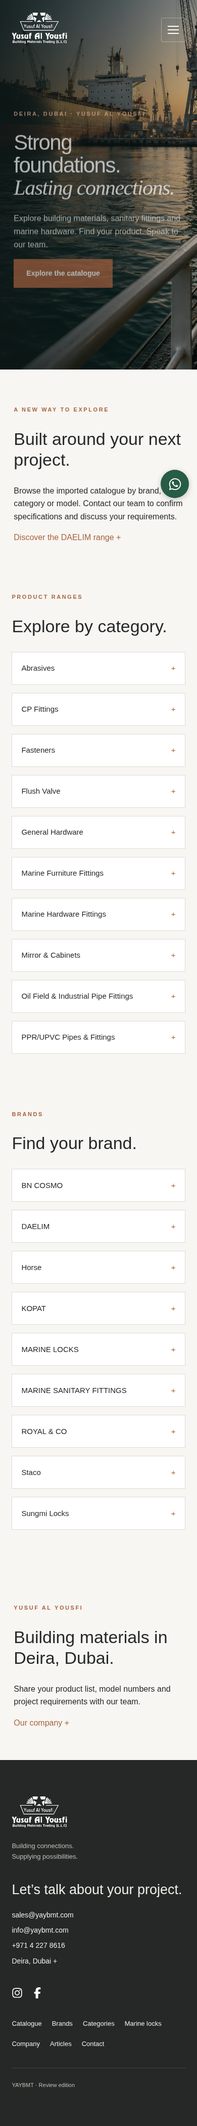
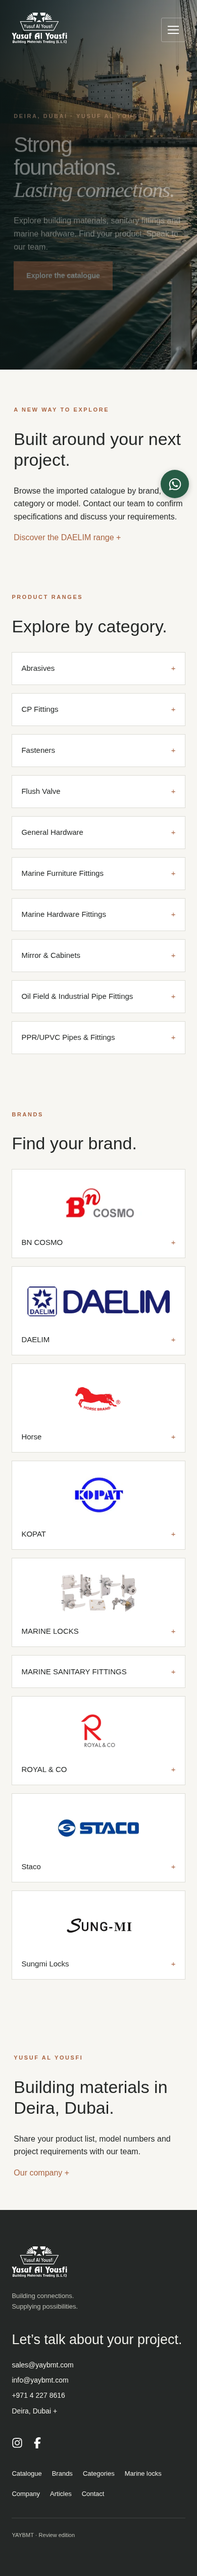
Restore original WordPress brand images as local static assets

diff --git a/data/brand-logos.ts b/data/brand-logos.ts
@@ -1,0 +1,65 @@
+export type BrandLogoData = {
+  src: string;
+  originalSrc: string;
+  width: number;
+  height: number;
+  source: string;
+};
+export const brandLogos: Record<string, BrandLogoData> = {
+  "bn-cosmo": {
+    src: "/images/brands/bn-cosmo.webp",
+    originalSrc: "/images/brands/bn-cosmo.png",
+    width: 182,
+    height: 80,
+    source: "2025/04/images-2-1.png",
+  },
+  daelim: {
+    src: "/images/brands/daelim.webp",
+    originalSrc: "/images/brands/daelim.png",
+    width: 640,
+    height: 134,
+    source: "2025/04/daelim.png",
+  },
+  horse: {
+    src: "/images/brands/horse.webp",
+    originalSrc: "/images/brands/horse.jpg",
+    width: 351,
+    height: 240,
+    source: "2025/05/horse.jpg",
+  },
+  kopat: {
+    src: "/images/brands/kopat.webp",
+    originalSrc: "/images/brands/kopat.jpg",
+    width: 188,
+    height: 141,
+    source: "2025/04/kopat.jpg",
+  },
+  "marine-locks": {
+    src: "/images/brands/marine-locks.webp",
+    originalSrc: "/images/brands/marine-locks.png",
+    width: 480,
+    height: 240,
+    source: "2025/05/MARINE-LOCKS-1.png",
+  },
+  "royal-co": {
+    src: "/images/brands/royal-co.webp",
+    originalSrc: "/images/brands/royal-co.png",
+    width: 240,
+    height: 240,
+    source: "2025/04/New-Project.png",
+  },
+  staco: {
+    src: "/images/brands/staco.webp",
+    originalSrc: "/images/brands/staco.png",
+    width: 300,
+    height: 100,
+    source: "2025/04/logo.png",
+  },
+  "sungmi-locks": {
+    src: "/images/brands/sungmi-locks.webp",
+    originalSrc: "/images/brands/sungmi-locks.png",
+    width: 593,
+    height: 240,
+    source: "2025/04/sung-mi.png",
+  },
+};

diff --git a/app/globals.css b/app/globals.css
@@ -1144,3 +1144,40 @@ summary {
     width: 100%;
   }
 }
+
+.brand-logo-frame {
+  display: flex;
+  align-items: center;
+  justify-content: center;
+  width: 100%;
+  height: 100px;
+  background: #fff;
+  padding: 12px;
+}
+.brand-logo-frame img {
+  display: block;
+  width: auto;
+  height: auto;
+  max-width: 100%;
+  max-height: 100%;
+  object-fit: contain;
+}
+.directory > .brand-directory-card {
+  display: flex;
+  flex-wrap: wrap;
+  gap: 14px;
+}
+.brand-directory-card > .brand-logo-frame {
+  flex: 0 0 100%;
+}
+.brand-directory-card > span[aria-hidden] {
+  margin-left: auto;
+}
+.brand-archive-logo {
+  width: min(320px, 100%);
+  margin: 24px 0;
+}
+.brand-archive-logo .brand-logo-frame {
+  height: 160px;
+  border: 1px solid var(--line);
+}

diff --git a/app/page.tsx b/app/page.tsx
@@ -1,3 +1,4 @@
+import BrandLogo from "../components/BrandLogo";
 import { sourcePages } from "../data/source-pages";
 import { brands } from "../data/brands";
 import { categories } from "../data/categories";
@@ -62,7 +63,12 @@ export default function Home() {
         <h2>Find your brand.</h2>
         <div className="directory">
           {brands.map((b) => (
-            <a href={"/brand/" + b.slug + "/"} key={b.slug}>
+            <a
+              className="brand-directory-card"
+              href={"/brand/" + b.slug + "/"}
+              key={b.slug}
+            >
+              <BrandLogo slug={b.slug} />
               {b.name}
               <span aria-hidden="true">+</span>
             </a>

diff --git a/app/brands/page.tsx b/app/brands/page.tsx
@@ -1,3 +1,4 @@
+import BrandLogo from "../../components/BrandLogo";
 import Breadcrumbs from "../../components/Breadcrumbs";
 import { brands } from "../../data/brands";
 import { metadata as meta } from "../../lib/site";
@@ -23,7 +24,12 @@ export default function Page() {
       </p>
       <div className="directory">
         {brands.map((b) => (
-          <a href={"/brand/" + b.slug + "/"} key={b.slug}>
+          <a
+            className="brand-directory-card"
+            href={"/brand/" + b.slug + "/"}
+            key={b.slug}
+          >
+            <BrandLogo slug={b.slug} />
             {b.name}
             <span aria-hidden="true">+</span>
           </a>

diff --git a/components/ArchivePage.tsx b/components/ArchivePage.tsx
@@ -1,3 +1,4 @@
+import BrandLogo from "./BrandLogo";
 import Breadcrumbs from "./Breadcrumbs";
 import { pagePath } from "../lib/pagination";
 import type { Taxonomy } from "../data/types";
@@ -47,6 +48,11 @@ export default function ArchivePage({
           },
         ]}
       />
+      {kind === "brand" && (
+        <div className="brand-archive-logo">
+          <BrandLogo slug={term.slug} />
+        </div>
+      )}
       <p className="eyebrow">{kind === "brand" ? "BRAND" : "PRODUCT RANGE"}</p>
       <h1>{term.name}</h1>
       {items.length ? (

diff --git a/components/BrandLogo.tsx b/components/BrandLogo.tsx
@@ -1,0 +1,18 @@
+import { brandLogos } from "../data/brand-logos";
+
+export default function BrandLogo({ slug }: { slug: string }) {
+  const logo = brandLogos[slug];
+  if (!logo) return null;
+  return (
+    <span className="brand-logo-frame">
+      <img
+        src={logo.src}
+        alt=""
+        width={logo.width}
+        height={logo.height}
+        loading="lazy"
+        decoding="async"
+      />
+    </span>
+  );
+}

diff --git a/docs/brand-logos.md b/docs/brand-logos.md
@@ -1,0 +1,11 @@
+# Original brand logos
+
+Eight logos were retrieved read-only from the connected WordPress site's `product_brand` term `thumbnail_id` references. The source site was not modified. See `brand-logo-manifest.json` for exact attachment paths, source dimensions and SHA-256 hashes.
+
+Unchanged originals are retained in `public/images/brands/`. Smaller WebP display copies fit inside 640 × 240 pixels without enlargement. Typed mappings are in `data/brand-logos.ts`. These static files require no WordPress connection at build time or runtime.
+
+Logos appear in homepage brand links, the brands directory and brand archives, including pagination. Equal display frames use contain sizing and preserve proportions. The visible brand name supplies the accessible name; the repeated logo is decorative.
+
+Marine Locks uses the product montage assigned as its brand image in WordPress; it is preserved as supplied. Marine Sanitary Fittings has no assigned logo in the connected source and retains its text name. No logo or distributor claim was invented.
+
+Validation: static build and 406-route SEO/internal-link audit passed. Browser checks cover all nine brand routes at desktop/mobile widths, image decoding/proportions, directory/homepage placement and no horizontal overflow. All eight original SHA-256 hashes were compared with the source. Screenshots are in `artifacts/nextjs/brands-*` and `brand-kopat-*`.
